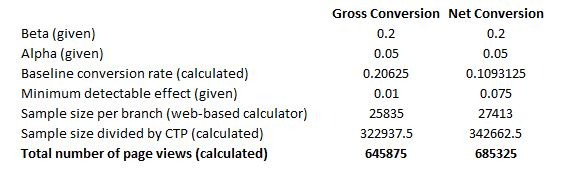
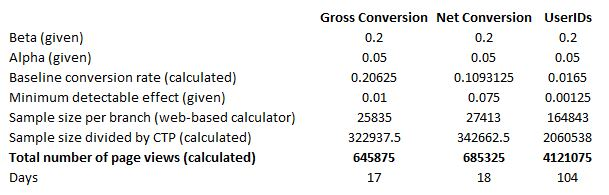
Final Oct 13

diff --git a/README.md b/README.md
@@ -26,7 +26,7 @@ The list below explains the use of each available metric as an invariant or eval
 **Invariant metric: YES** - it is used as initial unit of diversion to make sure that I split equally between control and experiment group. **Evaluation metric: NO** - invariant metric should not change between tests (control, experiment)
 
 (2) **Number of userids:** That is, number of users who enroll in the free trial (dmin=50):
-**Invariant metric: NO** - this metric can not be used for diversion. **Evaluation metric: NO** - the number depends on whether the students enrolls into the "start free-trail" or not. Only there I would get the userids
+**Invariant metric: NO** - this metric can not be used for diversion. **Evaluation metric: YES** - userids is equivalent to enrollments, when the user starts the free trial she/he has to register and give her/his credit card information. Therefore we can use this as an evaluation metric since we would expect a difference between the control and experiment group
 
 (3) **Number of clicks:** That is, number of unique cookies to click the "Start free trial" button (which happens before the free trial screener is trigger) (dmin=240):
 **Invariant metric: YES** - check that the same amount of users proceed from course page to the experiment page under controlled and experiment conditions. **Evaluation metric: NO** - invariant metric should not change between tests (control, experiment)
@@ -51,6 +51,8 @@ I used the baseline values to analytically estimate the standard deviation (SD) 
 
 **Net conversion:** N=400; p=0.1093; **SD=0.0156**
 
+**Number of userids:** N=5000; p=0.0165; **SD=0.0018**
+
 A binomial distribution follows a normal distribution for large sample sizes. Both metrics (Gross- and Net conversion) depend on a number of unique cookies that click "start free trial" button, which is in line with our unit of diversion. This should lead to the assumption that the analytic estimate should be comparable to the empirical variability.
 
 ### Sizing
@@ -62,7 +64,9 @@ Based on "Beta", "Alpha", "Baseline conversion" and "minimum detectable effect" 
 ![alt text](img/capture.jpg)
 <end>
 
-To achieve sufficient power for both evaluation metrics a total number of page view of 685325 is required. Bonferroni correction is not used since both evaluation metrics have to be valid and Bonferroni correction is "over" conservative for high correlation metrics.
+Since userids would need the experiment to run for 104 days, I will not consider it further as an evaluation metric.
+
+To achieve sufficient power for gross- and net conversion a total number of page view of 685325 is required. Bonferroni correction is not used since both evaluation metrics have to be valid and Bonferroni correction is "over" conservative for high correlation metrics.
 
 b) Duration vs. Exposure
 Based on the KPI "Unique cookies a day" = 40000 the experiment has to run 18 days. 
